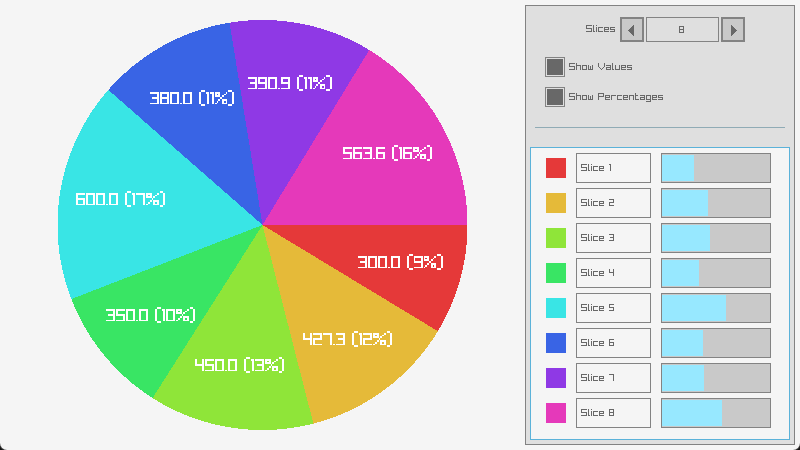
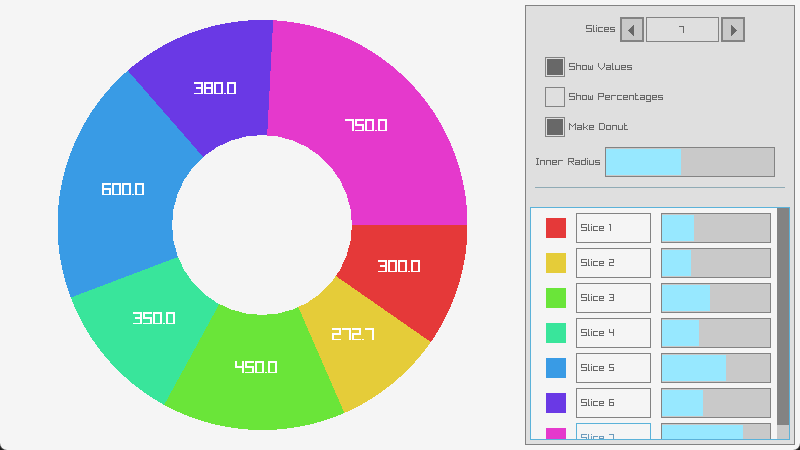
[examples] Added donut pie charts to `shapes_pie_chart` (#5277)
* Added donut chart option to pie chart example

* Increased example description buffer size

* Testing mouse trail building

* Removed unused variable

---------

diff --git a/examples/shapes/shapes_pie_chart.c b/examples/shapes/shapes_pie_chart.c
@@ -36,6 +36,7 @@ int main(void)
 
     #define MAX_SLICES 10
     int sliceCount = 7;
+    float donutInnerRadius = 25.0f;
     float values[MAX_SLICES] = {300.0f, 100.0f, 450.0f, 350.0f, 600.0f, 380.0f, 750.0f}; //initial slice values
     char labels[MAX_SLICES][32];
     bool editingLabel[MAX_SLICES] = {false};
@@ -45,6 +46,7 @@ int main(void)
 
     bool showValues = true;
     bool showPercentages = false;
+    bool showDonut = false;
     int hoveredSlice = -1;
     Rectangle scrollPanelBounds = {0};
     Vector2 scrollContentOffset = {0};
@@ -72,7 +74,7 @@ int main(void)
         const Rectangle panelRect = {
             panelPos.x, panelPos.y,
             (float)panelWidth,
-            (float)screenHeight - 2.0f*panelMargin
+            (float)screenHeight - 2.0f*panelMargin 
         };
 
         // Pie chart geometry
@@ -159,6 +161,12 @@ int main(void)
                 DrawText(labelText, (int)labelPos.x, (int)labelPos.y, 18, WHITE);
             }
 
+            if(showDonut)
+            {
+                // Draw inner circle to create donut effect
+                DrawCircle(center.x, center.y, donutInnerRadius, RAYWHITE);
+            }
+
             startAngle += sweepAngle;
         }
         //------------------------------------------------------------------------------
@@ -177,17 +185,29 @@ int main(void)
         currentY += 30;
 
         GuiCheckBox((Rectangle){ panelPos.x + 20, (float)currentY, 20, 20 }, "Show Percentages", &showPercentages);
-        currentY += 40;
+        currentY += 30;
+
+        GuiCheckBox((Rectangle){ panelPos.x + 20, (float)currentY, 20, 20 }, "Make Donut", &showDonut);
+        currentY += 30;
+
+        if(showDonut)
+        {
+            GuiSliderBar((Rectangle){ panelPos.x + 80, (float)currentY, panelRect.width - 100, 30 },
+                         "Inner Radius", NULL, &donutInnerRadius, 5.0f, radius - 10.0f);
+            currentY += 40;
+        }
 
         GuiLine((Rectangle){ panelPos.x + 10, (float)currentY, panelRect.width - 20, 1 }, NULL);
         currentY += 20;
+
+        
 
         // Scrollable area for slice editors
         scrollPanelBounds = (Rectangle){ panelPos.x+panelMargin, (float)currentY, panelRect.width-panelMargin*2, panelRect.y + panelRect.height - currentY - panelMargin };
         int contentHeight = sliceCount * 35;
 
         GuiScrollPanel(scrollPanelBounds, NULL,
-                       (Rectangle){ 0, 0, panelRect.width - 20, (float)contentHeight },
+                       (Rectangle){ 0, 0, panelRect.width - 25, (float)contentHeight },
                        &scrollContentOffset, &view);
 
         const float contentX = view.x + scrollContentOffset.x; // left of content

diff --git a/examples/shapes/shapes_mouse_trail.c b/examples/shapes/shapes_mouse_trail.c
@@ -1,6 +1,3 @@
-#include "raylib.h"
-#include "raymath.h"
-
 /*******************************************************************************************
 *
 * raylib [shapes] example - Draw a mouse trail (position history)
@@ -17,6 +14,9 @@
 * Copyright (c) 2024 [Balamurugan R] (@[Bala050814])
 *
 ********************************************************************************************/
+
+#include "raylib.h"
+#include "raymath.h"
 
 // Define the maximum number of positions to store in the trail
 #define MAX_TRAIL_LENGTH 30
